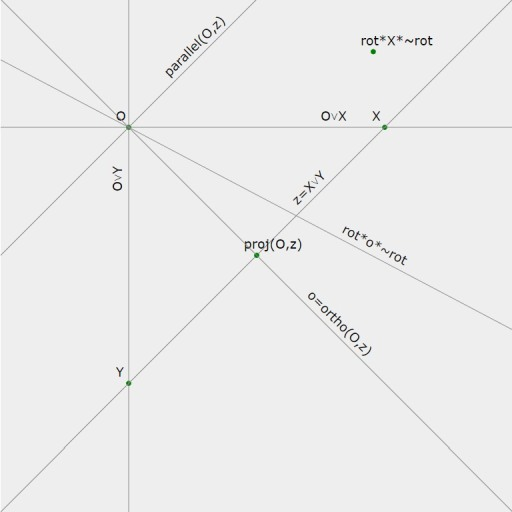
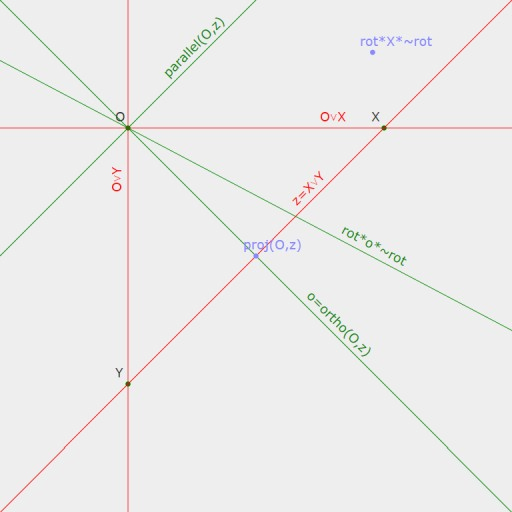
color support P2 graphing

diff --git a/ganja.js b/ganja.js
@@ -82,7 +82,19 @@
       static describe() { console.log(`Basis\n${basis}\nRemap${JSON.stringify(brm)}\nDual\n${drm}\nMetric\n${metric.slice(1,1+tot)}\nCayley\n${mulTable.map(x=>(x.map(x=>('           '+x).slice(-2-tot)))).join('\n')}`); }    
       toString() { var res=[]; for (var i=0; i<basis.length; i++) if (Math.abs(this[i])>1e-10) res.push(((this[i]==1)&&i?'':((this[i]==-1)&&i)?'-':(this[i].toFixed(10)*1))+(i==0?'':tot==1?'i':basis[i].replace('e','e_'))); return res.join('+').replace(/\+-/g,'-')||'0'; }
     // Parse expressions, translate functions and render graphs.
-      static graph(f,cvs,ww,hh) { if (!(f instanceof Function)) return new DOMParser().parseFromString(`<SVG viewBox="-2 -2 4 4" style="width:512px; height:512px; background-color:#eee">${Object.keys(f).map(oi=>{ var o=f[oi].Normalized; return (o.Blade(1).Length>0.001?`<LINE x1=-10 y1=${-o[1]} x2=10 y2=${-o[1]} stroke-width="0.005" stroke="#888" transform="rotate(${-Math.atan2(o[2],o[3])/Math.PI*180},0,0)"/><text x="0.5" y="${-o[1]-0.05}" font-family="Verdana" font-size="0.1" transform="rotate(${(-Math.atan2(o[2],o[3])/Math.PI*180)},0,0)">${oi}</text>`:`<CIRCLE cx="${o.e20/o.e12}" cy="${o.e01/o.e12}" r="0.02" fill="green"/><text x="${o.e20/o.e12-0.1}" y="${o.e01/o.e12-0.05}" font-family="Verdana" font-size="0.1">${oi}</text>`)}).join()}`,'text/html').body.firstChild;
+      static graph(f,cvs,ww,hh) {  
+      // p2d SVG points/lines/rotations/translations/labels .. 
+        if (!(f instanceof Function)) { var lx=0,ly=0,lr=0,color='';
+          if (!(f instanceof Array)) f=[].concat.apply([],Object.keys(f).map((k)=>typeof f[k]=='number'?[f[k]]:[f[k],k]));
+          return new DOMParser().parseFromString(`<SVG viewBox="-2 -2 4 4" style="width:512px; height:512px; background-color:#eee">
+           ${f.map(o=>{ 
+             if (typeof o =='string') { return `<text x="${lx}" y="${ly}" font-family="Verdana" font-size="0.1" fill="${color||'#333'}" transform="rotate(${lr},0,0)">${o}</text>`; }
+             if (typeof o =='number') { color='#'+(o+(1<<25)).toString(16).slice(-6); return ''; }o=o.Normalized; var oi='test';
+             if (o.Blade(2).Length>0.001) { lx=o.e20/o.e12; ly=o.e01/o.e12; lr=0;  var res=`<CIRCLE cx="${lx}" cy="${ly}" r="0.02" fill="${color||'green'}"/>`; ly-=0.05; lx-=0.1; return res; }
+             if (o.Blade(1).Length>0.001) { lx=0.5; ly=-o[1]; lr=-Math.atan2(o[2],o[3])/Math.PI*180; var res=`<LINE x1=-10 y1=${ly} x2=10 y2=${ly} stroke-width="0.005" stroke="${color||'#888'}" transform="rotate(${lr},0,0)"/>`; ly-=0.05; return res; }
+            }).join()}`,'text/html').body.firstChild;
+        }  
+      // 1d and 2d functions  
         if (cvs!==false) f=this.inline(f); cvs=cvs||document.createElement('canvas'); if(ww)cvs.width=ww; if(hh)cvs.height=hh; var w=cvs.width,h=cvs.height,context=cvs.getContext('2d'), data=context.getImageData(0,0,w,h);
         if (f.length==2) for (var px=0; px<w; px++) for (var py=0; py<h; py++) { var res=f(px/w*2-1, py/h*2-1); res=res.buffer?[].slice.call(res):res.slice?res:[res,res,res]; data.data.set(res.map(x=>x*255).concat([255]),py*w*4+px*4); }
         else if (f.length==1) for (var px=0; px<w; px++) { var res=f(px/w*2-1); res=Math.round(Math.min(h-1,Math.max(0,(res/2+0.5)*h))); data.data.set([0,0,0,255],res*w*4+px*4); }

diff --git a/examples/example_projective_2d.html b/examples/example_projective_2d.html
@@ -20,20 +20,23 @@
 
    // Use the graph function to display a labeled set of elements.
    
-    document.body.appendChild(P2.graph(P2.inline(function(){ 
+    P2.inline(function(){ 
        var O=P2.point(-1,-1), X=P2.point(1,-1), Y=P2.point(-1,1),z=P2.join(Y,X),o=-1*P2.ortho(O,z),rot=this.rotor(0.3,O);
-       return {
+       return document.body.appendChild(this.graph({
          O,X,Y,
+         "color1"        : 0xff0000,
          "O˅X"           : P2.join(O,X),
          "O˅Y"           : P2.join(Y,O),
          "z=X˅Y"         : z,
-         "proj(O,z)"     : P2.project(O,z),
+         "color2"        : 0x008800,
          "o=ortho(O,z)"  : o,
+         "parallel(O,z)" : P2.parallel(O,z),
          "rot*o*~rot"    : rot*o*~rot,
+         "color3"        : 0x8888ff,
+         "proj(O,z)"     : P2.project(O,z),
          "rot*X*~rot"    : rot*X*~rot,
-         "parallel(O,z)" : P2.parallel(O,z)
-       }
-    })()));
+       }))
+    })();
 
   </SCRIPT>
 </BODY>

diff --git a/README.md b/README.md
@@ -39,7 +39,7 @@ rewrite functions containing algebraic constructs to their procedural counterpar
 * Supports any metric (positive,negative,zero)
 * Operator overloading
 * Algebraic constants
-* smallish (150 lines)
+* smallish (162 lines)
 * matrix-free inverses up to 5D.
 * geometric, inner (contraction), outer product
 * conjugate, reverse, involute, dual (Poincare), negative
@@ -330,21 +330,24 @@ We can now use our 2D Projective Algebra. We'll use the graph function to
 visualize some algebraic objects (i.e. lines and points).
 
 ```javascript
-document.body.appendChild(P2.graph(P2.inline(function(){ 
-   var O=P2.point(-1,-1), X=P2.point(1,-1), Y=P2.point(-1,1),
-       z=P2.join(Y,X), o=-1*P2.ortho(O,z), rot=this.rotor(0.3,O);
-   return {
-     O,X,Y,
-     "O˅X"           : P2.join(O,X),
-     "O˅Y"           : P2.join(Y,O),
-     "z=X˅Y"         : z,
-     "proj(O,z)"     : P2.project(O,z),
-     "o=ortho(O,z)"  : o,
-     "rot*o*~rot"    : rot*o*~rot,
-     "rot*X*~rot"    : rot*X*~rot,
-     "parallel(O,z)" : P2.parallel(O,z)
-   }
-})()));
+    P2.inline(function(){ 
+       var O=P2.point(-1,-1), X=P2.point(1,-1), Y=P2.point(-1,1),
+           z=P2.join(Y,X),o=-1*P2.ortho(O,z),rot=this.rotor(0.3,O);
+       document.body.appendChild(this.graph({
+         O,X,Y,
+         "color1"        : 0xff0000,
+         "O˅X"           : P2.join(O,X),
+         "O˅Y"           : P2.join(Y,O),
+         "z=X˅Y"         : z,
+         "color2"        : 0x008800,
+         "o=ortho(O,z)"  : o,
+         "parallel(O,z)" : P2.parallel(O,z),
+         "rot*o*~rot"    : rot*o*~rot,
+         "color3"        : 0x8888ff,
+         "proj(O,z)"     : P2.project(O,z),
+         "rot*X*~rot"    : rot*X*~rot,
+       }))
+    })();
 ```
 
 This example outputs :
